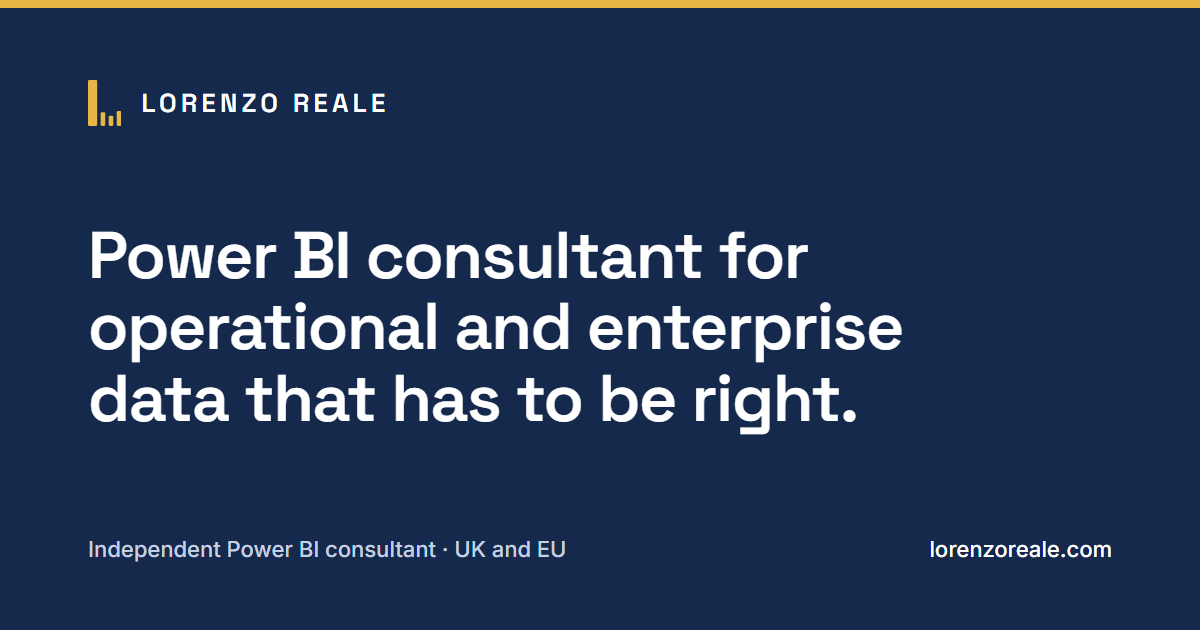
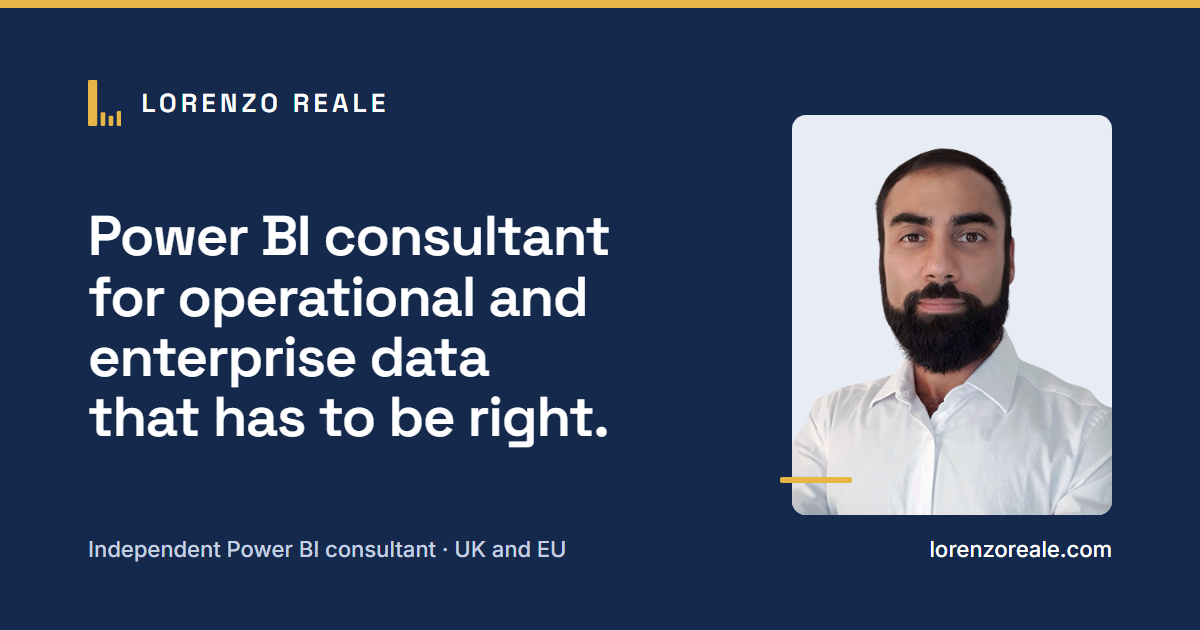
Feature the portrait on the homepage card and metadata
The home social card now shows the portrait beside the headline, in the
same frame as the hero. The homepage JSON-LD gains a WebPage node whose
primaryImageOfPage is the portrait, a hint for search result thumbnails.

Changed region(s): [[0.0617, 0.181, 0.925, 0.8444]]

diff --git a/index.html b/index.html
@@ -16,14 +16,14 @@
   <meta property="og:url" content="https://lorenzoreale.com/" />
   <meta property="og:title" content="Lorenzo Reale - Power BI Developer and Consultant | UK and EU" />
   <meta property="og:description" content="Power BI consultant for operational and enterprise data that has to be right. Dashboards, semantic models, DAX and the SQL layer beneath them, across the UK and EU." />
-  <meta property="og:image" content="https://lorenzoreale.com/og/home.png?v=2" />
+  <meta property="og:image" content="https://lorenzoreale.com/og/home.png?v=3" />
   <meta property="og:image:width" content="1200" />
   <meta property="og:image:height" content="630" />
-  <meta property="og:image:alt" content="Lorenzo Reale - Power BI consultant for operational and enterprise data" />
+  <meta property="og:image:alt" content="Lorenzo Reale - portrait beside the headline: Power BI consultant for operational and enterprise data that has to be right" />
 
   <!-- Twitter -->
   <meta name="twitter:card" content="summary_large_image" />
-  <meta name="twitter:image" content="https://lorenzoreale.com/og/home.png?v=2" />
+  <meta name="twitter:image" content="https://lorenzoreale.com/og/home.png?v=3" />
   <meta name="twitter:title" content="Lorenzo Reale - Power BI Developer and Consultant | UK and EU" />
   <meta name="twitter:description" content="Power BI consultant for operational and enterprise data that has to be right. Dashboards, semantic models, DAX and the SQL layer beneath them, across the UK and EU." />
 
@@ -51,6 +51,22 @@
         "name": "Lorenzo Reale",
         "inLanguage": "en-GB",
         "publisher": { "@id": "https://lorenzoreale.com/#person" }
+      },
+      {
+        "@type": "WebPage",
+        "@id": "https://lorenzoreale.com/#webpage",
+        "url": "https://lorenzoreale.com/",
+        "name": "Lorenzo Reale - Power BI Developer and Consultant | UK and EU",
+        "inLanguage": "en-GB",
+        "isPartOf": { "@id": "https://lorenzoreale.com/#website" },
+        "about": { "@id": "https://lorenzoreale.com/#person" },
+        "primaryImageOfPage": {
+          "@type": "ImageObject",
+          "url": "https://lorenzoreale.com/media/profile.png",
+          "width": 1000,
+          "height": 999,
+          "caption": "Lorenzo Reale, independent Power BI consultant"
+        }
       },
       {
         "@type": "Person",

diff --git a/404.html b/404.html
@@ -15,14 +15,14 @@
   <meta property="og:locale" content="en_GB" />
   <meta property="og:title" content="Page not found - Lorenzo Reale" />
   <meta property="og:description" content="That page doesn't exist. Head back to the homepage." />
-  <meta property="og:image" content="https://lorenzoreale.com/og/home.png?v=2" />
+  <meta property="og:image" content="https://lorenzoreale.com/og/home.png?v=3" />
   <meta property="og:image:width" content="1200" />
   <meta property="og:image:height" content="630" />
-  <meta property="og:image:alt" content="Lorenzo Reale - Power BI consultant for operational and enterprise data" />
+  <meta property="og:image:alt" content="Lorenzo Reale - portrait beside the headline: Power BI consultant for operational and enterprise data that has to be right" />
 
   <!-- Twitter -->
   <meta name="twitter:card" content="summary_large_image" />
-  <meta name="twitter:image" content="https://lorenzoreale.com/og/home.png?v=2" />
+  <meta name="twitter:image" content="https://lorenzoreale.com/og/home.png?v=3" />
   <meta name="twitter:title" content="Page not found - Lorenzo Reale" />
   <meta name="twitter:description" content="That page doesn't exist. Head back to the homepage." />
 
